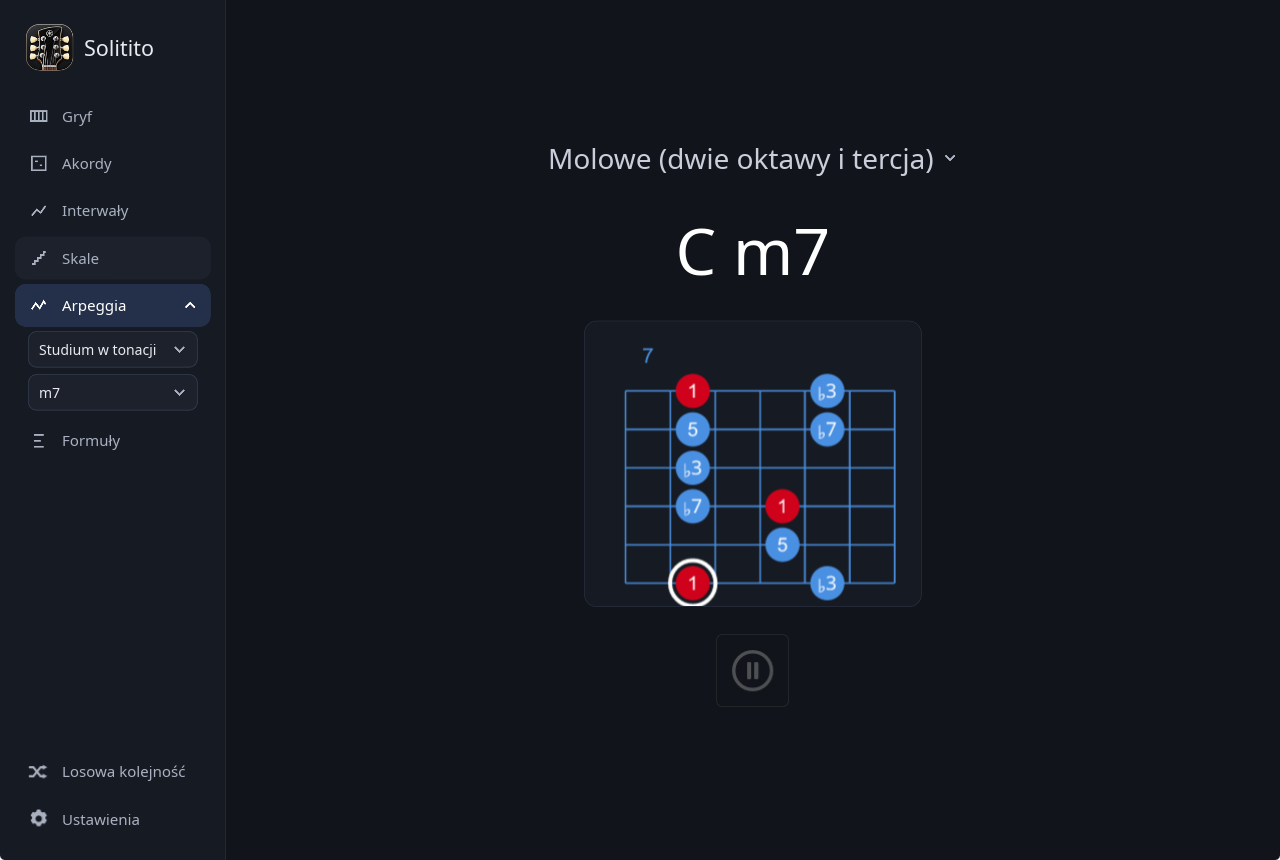
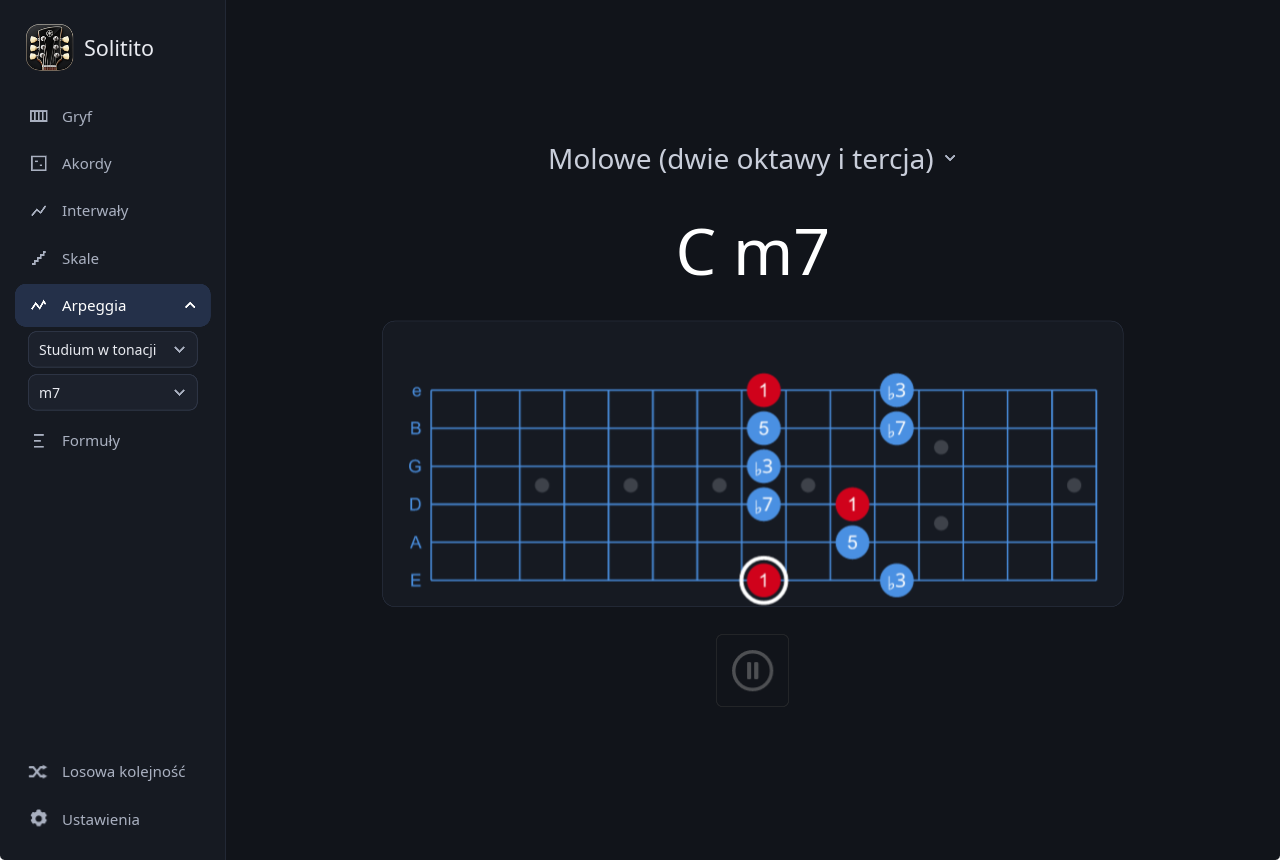
The whole neck in the neck view of Intervals, Scales and Arpeggios
- open strings to fret 15, strings named, inlays; grips drawn on it too
- a chord scale in Intervals drew an empty neck: placed with the level's own degrees
- the ring of the note due no longer cut at the edges
- the Fretboard hint sized as the neck is elsewhere; new Scales and Arpeggios screenshots

Changed region(s): [[0.3125, 0.4233, 0.875, 0.7256]]

diff --git a/src/tab.rs b/src/tab.rs
@@ -450,12 +450,16 @@ const STEP_X: f32 = 56.0;
 const MARGIN_X: f32 = 34.0;
 const MARGIN_Y: f32 = 30.0;
 /// Room around a grip box: at the left for the nut, and above it for the fret
-/// the shape starts on.
-const GRIP_LEFT: f32 = 52.0;
+/// the shape starts on. At the left it also holds an open string's note before
+/// the nut, ringed when it is due - at 52 the ring ran off the picture.
+const GRIP_LEFT: f32 = 62.0;
 /// Room above the box for the fret number - and enough of it that the number
 /// clears a dot sitting on the top string, whose centre is ON the box's edge.
 const GRIP_TOP: f32 = 88.0;
 const FRET_GAP: f32 = 56.0;
+/// How far the white ring of the note due reaches from the note's centre:
+/// its radius and half its stroke, and a little air.
+const RING_REACH: f32 = DOT_R + 7.0 + 2.5 + 3.0;
 use crate::diagrams::CARD;
 const BLUE: &str = "rgba(74, 144, 226, 1)";
 const RED: &str = "rgba(208, 2, 27, 1)";
@@ -583,7 +587,9 @@ fn fret_number_at(fret: i32, base: i32) -> String {
 fn box_size(columns: i32) -> (f32, f32) {
     (
         GRIP_LEFT + FRET_GAP * columns as f32 + MARGIN_X,
-        GRIP_TOP + STRING_GAP * 5.0 + MARGIN_Y,
+        // The ring on the low string reaches past the margin the strip
+        // keeps, and was cut along the bottom.
+        GRIP_TOP + STRING_GAP * 5.0 + MARGIN_Y.max(RING_REACH),
     )
 }
 
@@ -697,14 +703,14 @@ fn grip_dot(spot: &Spot, base: i32, colour: &str, is_due: bool, frets: bool) -> 
 /// reads as if the hand could not move, and where the position sits is half of
 /// what the picture is for.
 fn neck_columns(spots: &[Spot]) -> (i32, i32) {
-    let lowest = spots.iter().map(|s| s.fret).min().unwrap_or(1);
-    let highest = spots.iter().map(|s| s.fret).max().unwrap_or(5);
-    let base = (lowest - 1).max(1).min(15);
-    (base, (highest - base + 2).clamp(6, 13))
+    let highest = spots.iter().map(|s| s.fret).max().unwrap_or(0);
+    (1, highest.max(crate::fretboard::MAX_FRET as i32))
 }
 
-/// A phrase on the neck: the position it is played in, every note of it drawn
-/// where the finger goes, and the one due now ringed in white.
+/// A phrase on the neck: the whole of it, from the open strings to the
+/// fifteenth fret - or further, where the phrase goes - with its strings named
+/// and its inlays, every note drawn where the finger goes, and the one due now
+/// ringed in white. A grip is drawn the same way.
 ///
 /// The strip has the ORDER on its horizontal axis, which is right for reading a
 /// line but makes a thirty-note study thirty columns wide - and at that width
@@ -712,18 +718,16 @@ fn neck_columns(spots: &[Spot]) -> (i32, i32) {
 /// picture is the size of a hand however long the phrase is, and what moves is
 /// the ring, not the page.
 pub fn neck(spots: &[Spot], done: &[bool], current: usize, frets: bool) -> String {
-    if spots.is_empty() {
-        return grip(spots, done, current, frets);
-    }
     let (base, columns) = neck_columns(spots);
     let (w, h) = box_size(columns);
     let mut out = open_svg(w, h);
-    for i in 0..6 {
-        let y = GRIP_TOP + i as f32 * STRING_GAP;
-        out += &line(GRIP_LEFT, y, GRIP_LEFT + FRET_GAP * columns as f32, y, BLUE);
+    // An open string's note stands before the nut, where its name would.
+    for string in (0..6).rev() {
+        let open = spots.iter().any(|s| s.string == string && s.fret == 0);
+        out += &region_string(string, columns, true, !open);
     }
     out += &fret_lines(columns);
-    out += &fret_number(base);
+    out += &inlays(base, columns);
     // One dot per PLACE, not per step: a phrase comes back to the same finger
     // over and over, and six dots on top of each other are one dot with a
     // muddy edge. The step due now decides what the place looks like.
@@ -884,10 +888,6 @@ pub fn neck_aspect(spots: &[Spot]) -> f32 {
     box_aspect(neck_columns(spots).1)
 }
 
-/// How wide a grip box is against its height - see `aspect` for the strip.
-pub fn grip_aspect() -> f32 {
-    box_aspect(5)
-}
 
 /// The strip as an SVG, ready for `Image::load_from_svg_data`.
 ///
@@ -1134,7 +1134,8 @@ mod tests {
             name: Some("5".into()),
         }];
         let svg = grip(&spots, &[false], 1, true);
-        assert!(svg.contains("cx=\"23.64\""), "open dot is not left of the nut");
+        let open_x = GRIP_LEFT - DOT_R - 7.0;
+        assert!(svg.contains(&format!("cx=\"{open_x}\"")), "open dot is not left of the nut");
         assert!(
             svg.contains("fill=\"none\" stroke=\"rgba(74, 144, 226, 1)\" stroke-width=\"5\""),
             "open dot is not an empty circle"
@@ -1153,8 +1154,9 @@ mod tests {
         assert_eq!((spots[0].string, spots[0].fret), (3, 2), "A root moved off G2");
         assert_eq!((spots[2].string, spots[2].fret), (5, 0), "open E fifth moved");
         let svg = grip(&spots, &[false; 3], 3, false);
+        let open_x = GRIP_LEFT - DOT_R - 7.0;
         assert!(
-            svg.contains("cx=\"23.64\" cy=\"88\" fill=\"none\""),
+            svg.contains(&format!("cx=\"{open_x}\" cy=\"88\" fill=\"none\"")),
             "the open E fifth was drawn inside the fretboard"
         );
     }

diff --git a/src/ui_frame.rs b/src/ui_frame.rs
@@ -1138,9 +1138,7 @@ impl UiFrame {
         // No ring under free order: nothing is "due", and a ring would say the
         // opposite - for a grip, and for a scale let out of its order.
         let due = app.note_due().unwrap_or(spots.len());
-        let (svg, aspect) = if is_grip {
-            (tab::grip(&spots, done, due, frets), tab::grip_aspect())
-        } else if Preview::from(ui.get_preview()) == Preview::Tab {
+        let (svg, aspect) = if Preview::from(ui.get_preview()) == Preview::Tab {
             (tab::svg(&spots, done, due, frets), tab::aspect(spots.len()))
         } else {
             (tab::neck(&spots, done, due, frets), tab::neck_aspect(&spots))
@@ -1379,11 +1377,14 @@ fn place_phrase(app: &MyApp, chord: &Chord, steps: &[model::Step]) -> Vec<tab::S
         );
     }
     let from = (app.app_mode == AppMode::Scales).then_some(app.scale_start);
+    // Read the way the steps were written: a level of Intervals counts its
+    // degrees through the chord's scale, and against the chord's four tones
+    // alone its tensions had nowhere to go - a chord scale drew an empty neck.
     tab::place_from(
         chord.root as usize,
-        &chord.quality.intervals(),
+        &app.degree_intervals(chord),
         steps,
-        &chord.quality.interval_names(),
+        &app.degree_names(chord),
         None,
         from,
     )
@@ -1488,5 +1489,24 @@ mod this_way_tests {
         assert!(shown[..top].iter().all(|&d| !d), "the way up still green: {shown:?}");
         assert!(shown[top..top + 3].iter().all(|&d| d), "the way down not green: {shown:?}");
         assert!(a.collected_notes[..top].iter().all(|&d| d), "the judge forgot");
+    }
+
+    /// Every level of Intervals longer than a grip lies on the neck in full,
+    /// over every chord of the tune: a chord scale once drew an empty neck.
+    #[test]
+    fn every_line_of_intervals_is_drawn_on_the_neck() {
+        let mut a = app();
+        a.set_mode(AppMode::Intervals as i32);
+        for level in 0..crate::interval_levels::LEVELS.len() {
+            a.set_interval_level(level);
+            for chord in a.chords.clone() {
+                let steps = a.ordered_active_indices(&chord);
+                if steps.len() <= 4 {
+                    continue;
+                }
+                let spots = place_phrase(&a, &chord, &steps);
+                assert_eq!(spots.len(), steps.len(), "level {level} over {chord:?}");
+            }
+        }
     }
 }
